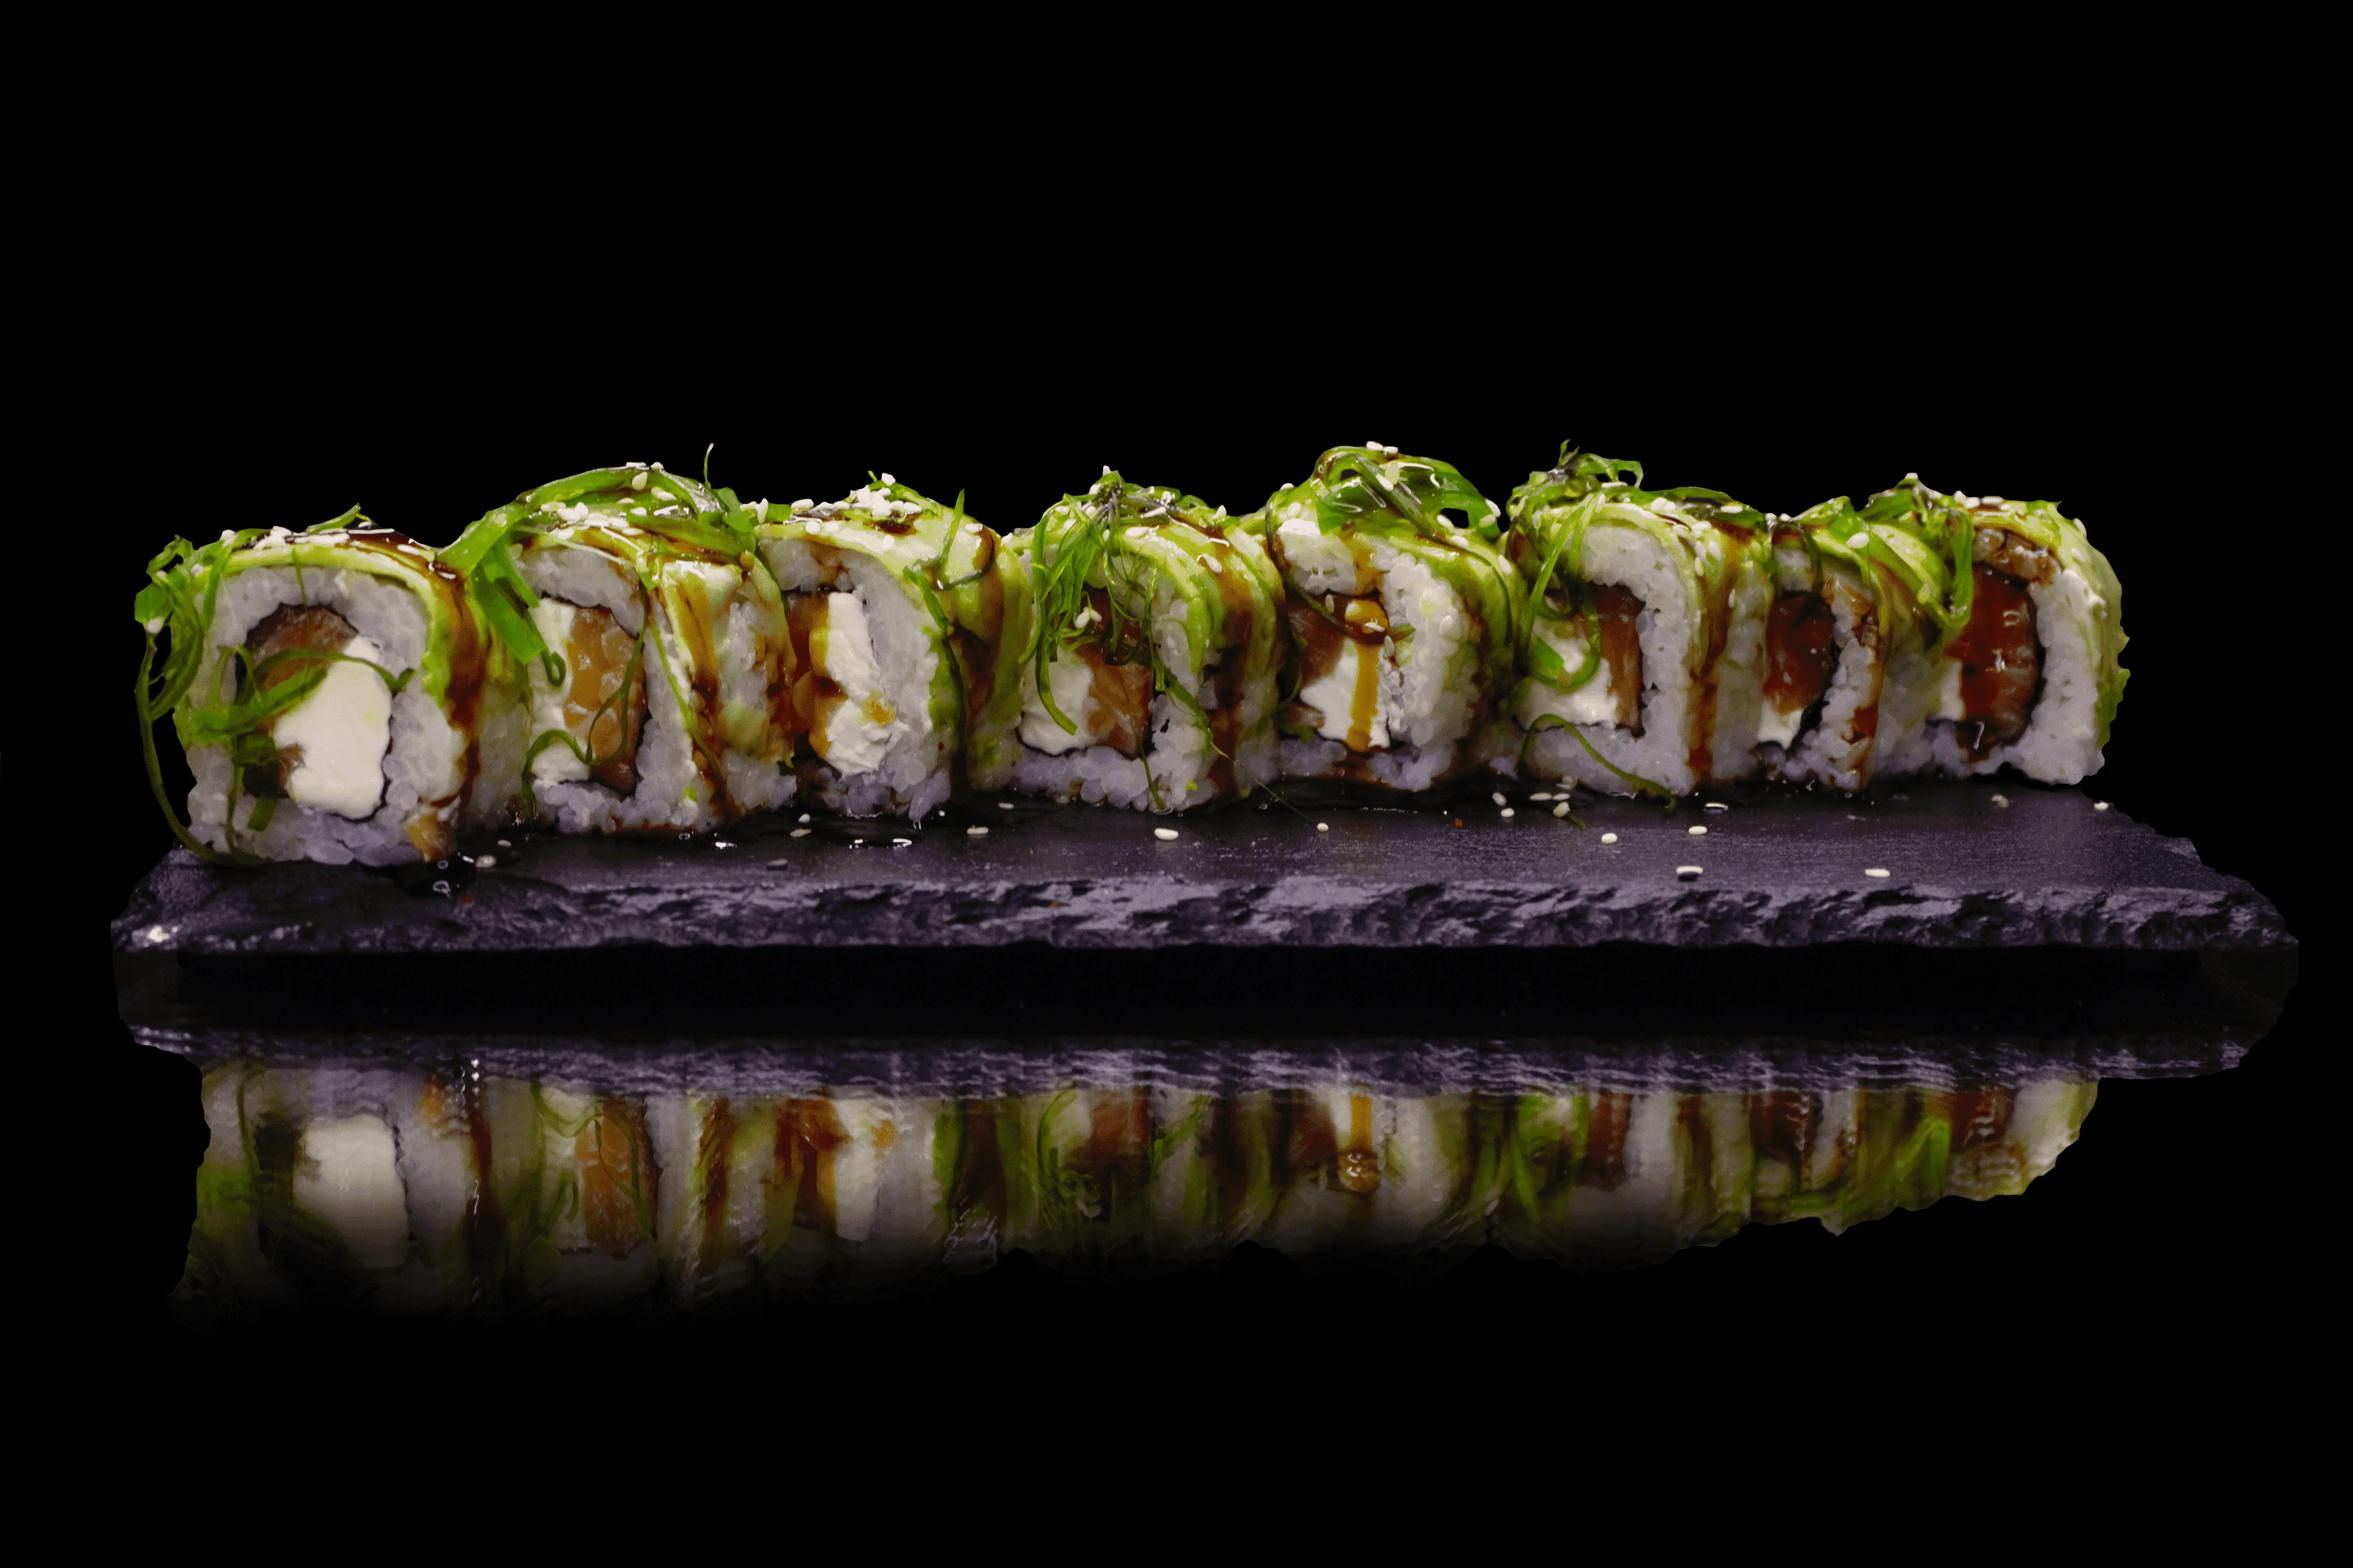
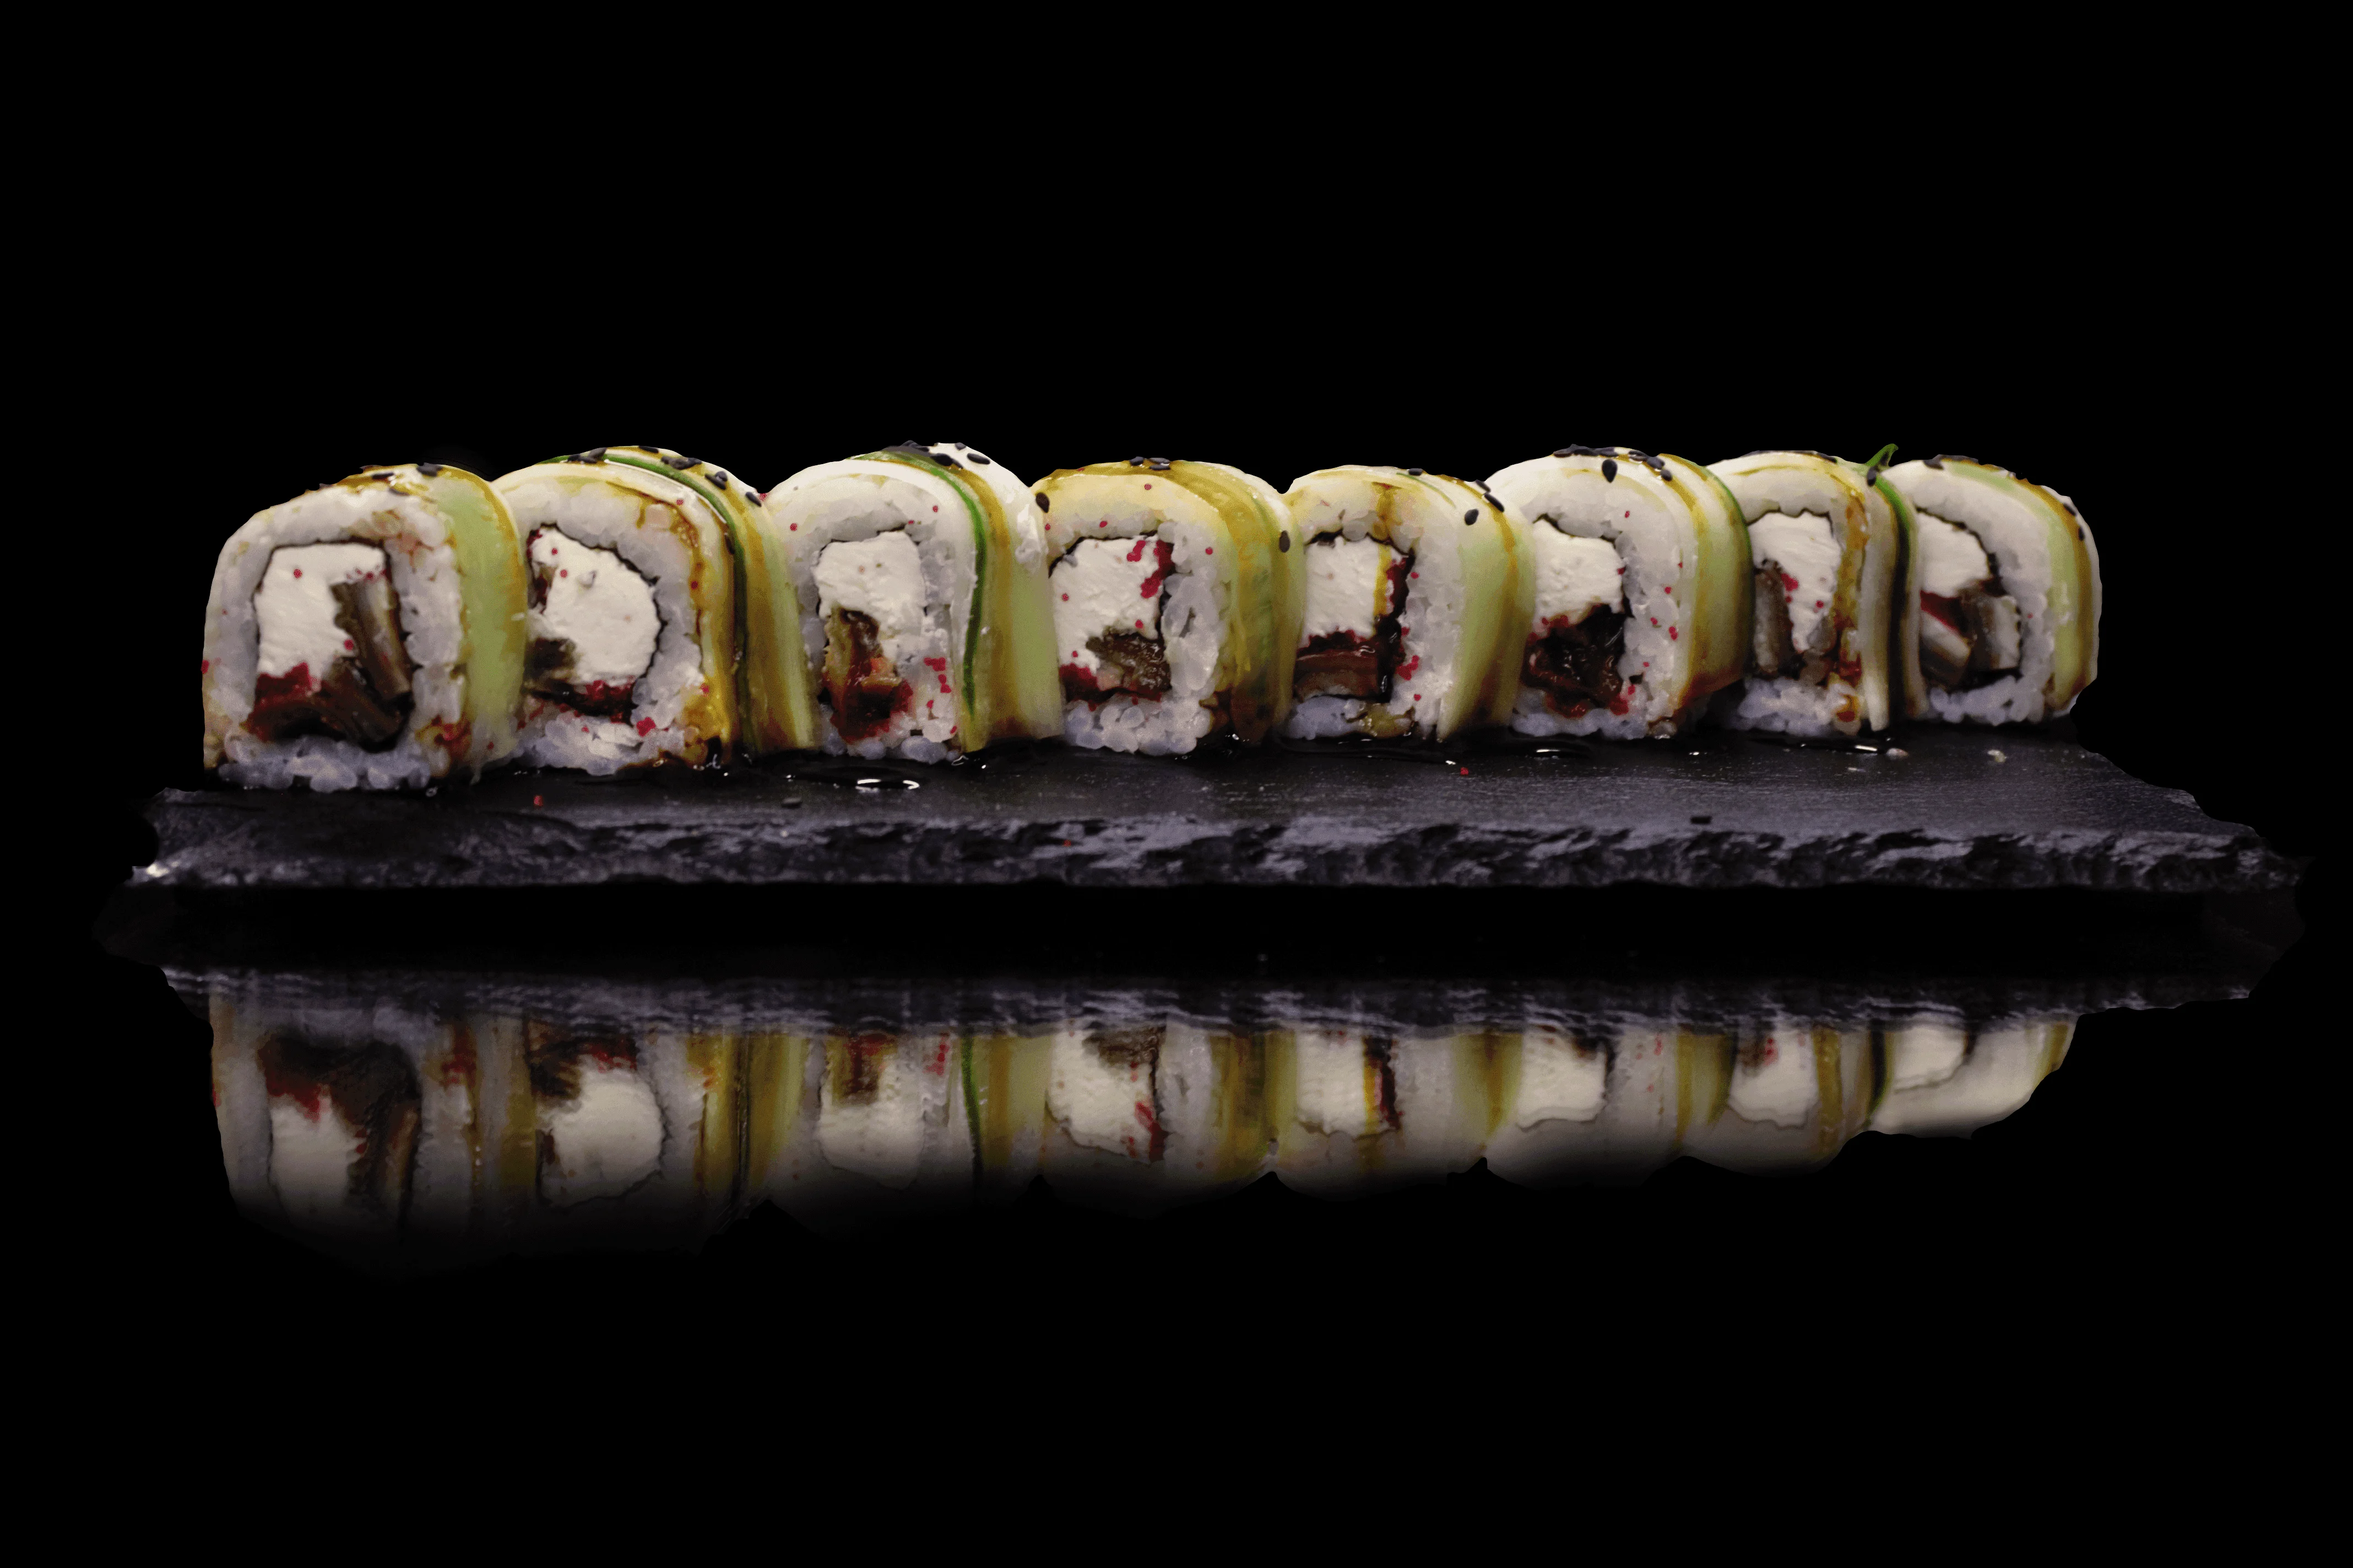
нові ціни суш

diff --git a/index.html b/index.html
@@ -3280,7 +3280,7 @@
                 <p>200 г.</p>
               </div>
               <div class="price_f">
-                <p >180₴</p>
+                <p >190₴</p>
               </div>
             </div>
              <!-- The Modal -->
@@ -3328,7 +3328,7 @@
                 <p>230 г.</p>
               </div>
               <div class="price_f">
-                <p >220₴</p>
+                <p >240₴</p>
               </div>
             </div>
              <!-- The Modal -->
@@ -3352,7 +3352,7 @@
                 <p>280 г.</p>
               </div>
               <div class="price_f">
-                <p >200₴</p>
+                <p >220₴</p>
               </div>
             </div>
              <!-- The Modal -->
@@ -3489,10 +3489,10 @@
 
           <div class="block_f">
             <span onclick="info_f('rol_nij')" class="comp">ⓘ</span>
-            <img onclick="info_f('rol_nij')" src="/Image/sushi/Зелений Дракон.webp " alt="">
+            <img onclick="info_f('rol_nij')" src="/Image/sushi/Канада.webp " alt="">
             <div class="block_in">
               <div class="name_f">
-                <h3 >Зелений Дракон</h3>
+                <h3 >Канада</h3>
                 <p>220 г.</p>
               </div>
               <div class="price_f">
@@ -3505,7 +3505,7 @@
               <!-- Modal content -->
               <div class="modal-content">
                 <span class="close_rol_nij">&times;</span>
-                <h3>Рол Зелений Дракон</h3>
+                <h3>Рол Канада</h3>
                 <p><b>Склад:</b><br><br>•Рис;<br>•Норі;<br>•Крем-сир;<br>•Лосось;<br>•Авокадо;<br>•Соус Унагі;<br>•Хіяші;</p>
               </div>
             </div>
@@ -3514,10 +3514,10 @@
 
           <div class="block_f">
             <span onclick="info_f('rol_fre_vug')" class="comp">ⓘ</span>
-            <img onclick="info_f('rol_fre_vug')" src="/Image/sushi/Фреш з вугром.webp " alt="">
+            <img onclick="info_f('rol_fre_vug')" src="/Image/sushi/Зелений Дракон.webp" alt="">
             <div class="block_in">
               <div class="name_f">
-                <h3 >Фреш з Вугрем</h3>
+                <h3 >Зелений Дракон</h3>
                 <p>240 г.</p>
               </div>
               <div class="price_f">
@@ -3530,7 +3530,7 @@
               <!-- Modal content -->
               <div class="modal-content">
                 <span class="close_rol_fre_vug">&times;</span>
-                <h3>Рол Фреш з Вугрем</h3>
+                <h3>Рол Зелений Дракон</h3>
                 <p><b>Склад:</b><br><br>•Рис;<br>•Норі;<br>•Крем-сир;<br>•Вугор;<br>•Ікра;<br>•Огірок;<br>•Соус Унагі;</p>
               </div>
             </div>
@@ -3545,7 +3545,7 @@
                 <p>200 г.</p>
               </div>
               <div class="price_f">
-                <p >180₴</p>
+                <p >190₴</p>
               </div>
             </div>
              <!-- The Modal -->
@@ -3617,7 +3617,7 @@
                 <p>210 г.</p>
               </div>
               <div class="price_f">
-                <p >150₴</p>
+                <p >160₴</p>
               </div>
             </div>
              <!-- The Modal -->
@@ -3853,7 +3853,7 @@
                 <div class="modal-content">
                   <span class="close_set_sam">&times;</span>
                   <h3>Сет Самурай</h3>
-                  <p><b>Склад:</b><br><br>•Філадельфія Класична;<br>•Фреш з Вугрем;<br>•Каліфорнія з Крабом в Ікрі;<br>•Філадельфія в Кунжуті;</p>
+                  <p><b>Склад:</b><br><br>•Філадельфія Класична;<br>•Зелений Дракон;<br>•Каліфорнія з Крабом в Ікрі;<br>•Філадельфія в Кунжуті;</p>
                 </div>
               </div>
             </div>
@@ -3867,7 +3867,7 @@
                   <p>32 шт./970г.</p>
                 </div>
                 <div class="price_f">
-                  <p >550₴</p>
+                  <p >600₴</p>
                 </div>
               </div>
                <!-- The Modal -->
@@ -3877,7 +3877,7 @@
                 <div class="modal-content">
                   <span class="close_set_kat">&times;</span>
                   <h3>Сет Катана</h3>
-                  <p><b>Склад:</b><br><br>•Фреш з Вугрем;<br>•Філадельфія Класична;<br>•Зелений Дракон;<br>•Запечений з Креветкою;</p>
+                  <p><b>Склад:</b><br><br>•Зелений Дракон;<br>•Філадельфія Класична;<br>•Канада;<br>•Запечений з Креветкою;</p>
                 </div>
               </div>
             </div>
@@ -3916,7 +3916,7 @@
                   <p>38 шт./1140г.</p>
                 </div>
                 <div class="price_f">
-                  <p >650₴</p>
+                  <p >700₴</p>
                 </div>
               </div>
                <!-- The Modal -->
